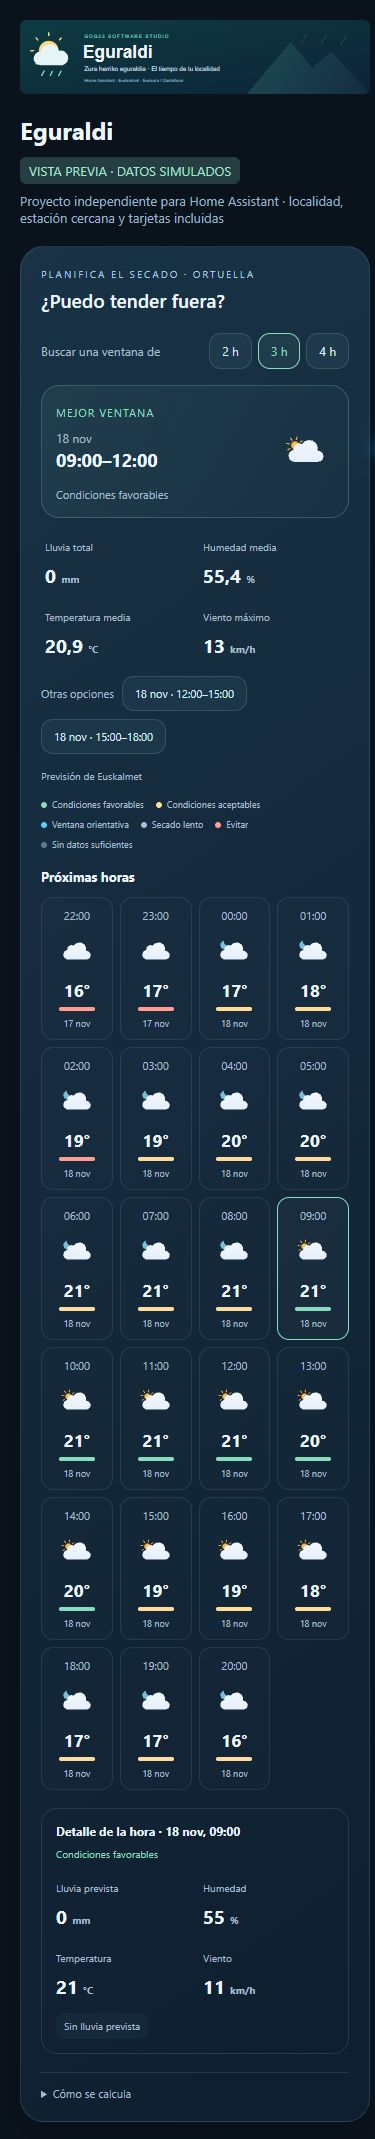
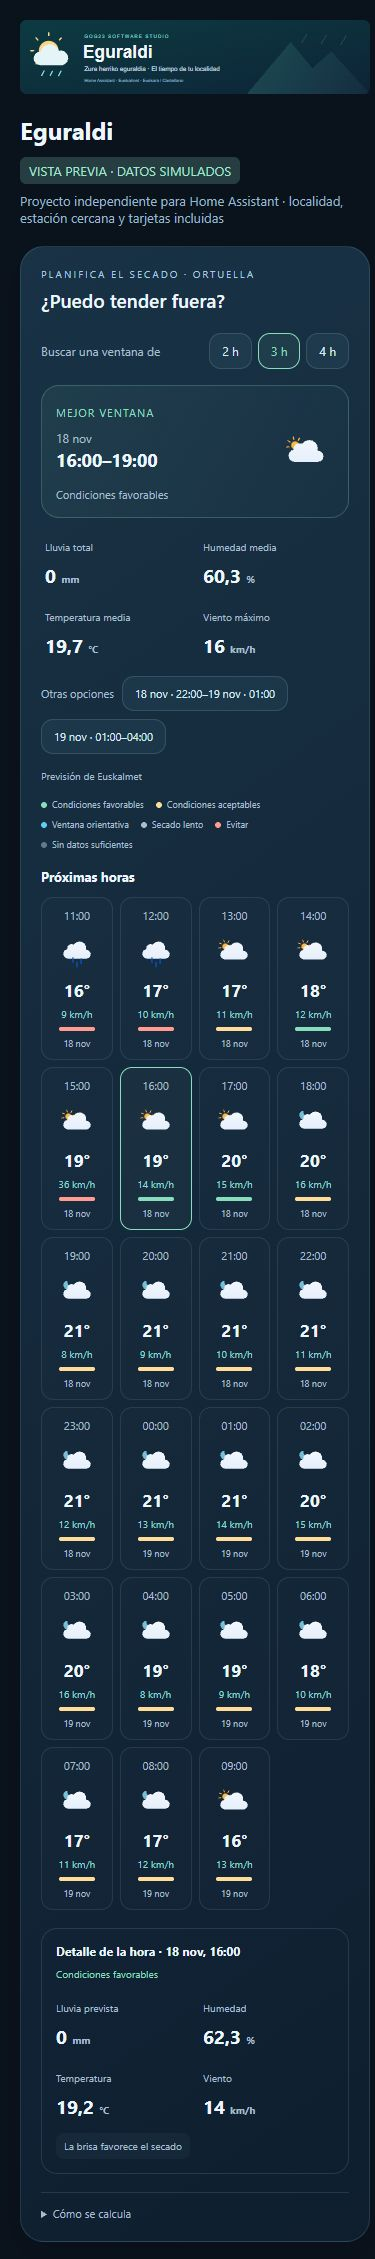
Show hourly wind and explain the benefit of breeze for outdoor drying

diff --git a/custom_components/euskalmet_local/frontend/euskalmet-local-card.js b/custom_components/euskalmet_local/frontend/euskalmet-local-card.js
@@ -1,14 +1,14 @@
 /* Eguraldi — GOG23 Software Studio. MIT. Icons: Meteocons / Bas Milius. */
-import './euskalmet-alert-card.js?v=0.4.0';
-import './eguraldi-comparison-card.js?v=0.4.0';
-import './eguraldi-microclimate-card.js?v=0.4.0';
-import './euskalmet-history-card.js?v=0.4.0-controls';
-import './euskalmet-radar-map-card.js?v=0.4.0';
+import './euskalmet-alert-card.js?v=0.4.1';
+import './eguraldi-comparison-card.js?v=0.4.1';
+import './eguraldi-microclimate-card.js?v=0.4.1';
+import './euskalmet-history-card.js?v=0.4.1-controls';
+import './euskalmet-radar-map-card.js?v=0.4.1';
 
-import {DRYING_CSS} from './eguraldi-drying-style.js?v=0.4.0';
-import {dryingPlan} from './eguraldi-drying-model.js?v=0.4.0';
+import {DRYING_CSS} from './eguraldi-drying-style.js?v=0.4.1';
+import {dryingPlan} from './eguraldi-drying-model.js?v=0.4.1';
 
-import {outingPlan} from './eguraldi-outing-model.js?v=0.4.0';
+import {outingPlan} from './eguraldi-outing-model.js?v=0.4.1';
 
 const EU_TEXT = {
   "Despejado": "Oskarbi",
@@ -109,6 +109,7 @@ Object.assign(EU_TEXT,{"Lluvia total":"Euri metatua","Humedad media":"Batez best
 Object.assign(EU_TEXT,{"Revisa el complemento de humedad para esta localidad":"Berrikusi herri honetako hezetasun osagarria"});
 Object.assign(EU_TEXT,{"La mejor hora para salir": "Kalera irteteko ordurik onena", "Salir": "Kalera irten", "Organiza tu salida": "Antolatu zure irteera", "Paseo": "Paseoa", "Deporte": "Kirola", "Con niños": "Umeekin", "Actividad": "Jarduera", "Duración": "Iraupena", "Previsión horaria: las franjas de 30 minutos usan los mismos datos de su hora.": "Orduko iragarpena: 30 minutuko tarteek ordu bereko datuak erabiltzen dituzte.", "Paraguas": "Aterkia", "Chaqueta": "Jaka", "Por precaución": "Badaezpada", "No se prevé lluvia": "Ez da euririk espero", "Recomendable": "Gomendagarria", "A tu elección": "Zure aukeran", "Después de la mejor franja": "Tarterik onenaren ondoren", "Puede aparecer lluvia": "Euria ager daiteke", "Baja la temperatura": "Tenperatura jaisten da", "Aumenta el viento": "Haizea indartzen da", "No se detectan cambios destacables en las horas disponibles.": "Eskuragarri dauden orduetan ez da aldaketa nabarmenik antzeman.", "Franjas para comparar": "Alderatzeko tarteak", "Detalle de la franja": "Tartearen xehetasuna", "Máxima lluvia horaria": "Orduko euri maximoa", "Temperatura mínima": "Tenperatura minimoa", "Temperatura máxima": "Tenperatura maximoa", "Noche o poca luz": "Gaua edo argi gutxi", "Probabilidad de lluvia o lluvia débil": "Euri-probabilitatea edo euri ahula", "Viento molesto": "Haize gogaikarria", "Franja con lluvia": "Euria duen tartea", "Tormenta o condiciones adversas": "Ekaitza edo baldintza txarrak", "Temperatura poco adecuada para esta actividad": "Jarduera honetarako tenperatura desegokia", "Niebla": "Lainoa", "Faltan datos para valorar esta franja": "Tarte hau baloratzeko datuak falta dira", "No se ha encontrado una franja adecuada con los datos disponibles.": "Eskuragarri dauden datuekin ez da tarte egokirik aurkitu.", "Orientación meteorológica, no una evaluación de seguridad. Las reglas cambian según la actividad.": "Eguraldiari buruzko orientazioa da, ez segurtasun-ebaluazioa. Arauak jardueraren arabera aldatzen dira.", "Las franjas deben tener datos en todas las horas que tocan. No se interpolan la lluvia ni el viento.": "Tarteek ukitzen dituzten ordu guztietan datuak behar dituzte. Euria eta haizea ez dira interpolatzen.", "Se comparan lluvia, temperatura, viento y luz diurna. Microclima no modifica la previsión.": "Euria, tenperatura, haizea eta eguneko argia alderatzen dira. Mikroklimak ez du iragarpena aldatzen."});
 Object.assign(EU_TEXT,{"No se detectan cambios destacables en las horas comparadas.":"Alderatutako orduetan ez da aldaketa nabarmenik antzeman.","No hay suficientes datos posteriores para comparar.":"Ez dago ondorengo datu nahikorik alderatzeko.","Comparado hasta {time}":"{time} arte alderatuta"});
+Object.assign(EU_TEXT,{"La brisa favorece el secado":"Haize leunak lehortzen laguntzen du"});
 const egLocale = hass => String(hass?.locale?.language || hass?.language || navigator.language || 'es').toLowerCase().startsWith('eu') ? 'eu-ES' : 'es-ES';
 const egText = (hass, text, values={}) => {
   const translated=egLocale(hass)==='eu-ES'?(EU_TEXT[text]||text):text;
@@ -309,12 +310,12 @@ export class EuskalmetLocalCard extends HTMLElement {
     const supplemental=!this._humidityMismatch&&other&&!['unknown','unavailable'].includes(other.state)?this._humidityForecast||[]:[];
     const plan=dryingPlan(usable?this._forecasts.hourly:[],{hours:this._dryingDuration||Number(this._config.drying_hours)||3,units:this._weather(),humidityForecast:supplemental,night:stamp=>isNight(stamp,this._location.latitude,this._location.longitude)});
     const labels={good:'Condiciones favorables',fair:'Condiciones aceptables',limited:'Ventana orientativa',slow:'Secado lento',avoid:'Evitar',unknown:'Sin datos suficientes'};
-    const reasons={rain:'Lluvia o tormenta prevista',wind:'Viento demasiado fuerte',cold:'Frío intenso',humidity:'Humedad muy alta o niebla',missing_humidity:'Humedad horaria no disponible: orientación parcial.',humid:'Humedad alta',cool:'Temperatura baja',calm:'Poco viento',night:'Noche: menor potencial de secado',chance:'Posibilidad de lluvia'};
+    const reasons={rain:'Lluvia o tormenta prevista',wind:'Viento demasiado fuerte',cold:'Frío intenso',humidity:'Humedad muy alta o niebla',missing_humidity:'Humedad horaria no disponible: orientación parcial.',humid:'Humedad alta',cool:'Temperatura baja',calm:'Poco viento',breeze:'La brisa favorece el secado',night:'Noche: menor potencial de secado',chance:'Posibilidad de lluvia'};
     const day=stamp=>this._time(stamp,{day:'numeric',month:'short'}),clock=stamp=>this._time(stamp,{hour:'2-digit',minute:'2-digit'});
     const range=w=>`${day(w.start)} · ${clock(w.start)}–${day(w.start)!==day(w.end)?day(w.end)+' · ':''}${clock(w.end)}`;
     const best=plan.best,selected=plan.slots.find(p=>p.stamp===this._dryingSelected)||best?.slots[0]||plan.slots[0];
     const facts=(p,aggregate=false)=>`<div class="dry-facts">${[[this._t(aggregate?'Lluvia total':'Lluvia prevista'),p.rain,'mm'],[this._t(aggregate?'Humedad media':'Humedad'),p.humidity,'%'],[this._t(aggregate?'Temperatura media':'Temperatura'),p.temperature,'°C'],[this._t(aggregate?'Viento máximo':'Viento'),p.wind,'km/h']].map(([label,value,unit])=>`<div><span>${escapeHTML(label)}</span><strong>${fmt(value)} <small>${unit}</small></strong></div>`).join('')}</div>`;
-    return `<section class="drying">${this._forecastHeader('¿Puedo tender fuera?','Planifica el secado')}<div class="dry-controls"><span>${escapeHTML(this._t('Buscar una ventana de'))}</span><div>${[2,3,4].map(h=>`<button data-drying-duration="${h}" aria-pressed="${plan.duration===h}">${h} h</button>`).join('')}</div></div><div class="dry-hero ${best?(best.limited?'limited':best.score>=65?'good':'fair'):'avoid'}"><div><span class="dry-kicker">${escapeHTML(this._t(best?(best.limited?'Ventana orientativa':'Mejor ventana'):'Mejor esperar'))}</span><strong>${best?`<small class="dry-window-date">${escapeHTML(day(best.start))}</small>${escapeHTML(clock(best.start))}–${escapeHTML(clock(best.end))}${day(best.start)!==day(best.end)?`<small class="dry-window-date">${escapeHTML(day(best.end))}</small>`:''}`:escapeHTML(this._t('No hay una franja de {hours} h con condiciones suficientes.',{hours:plan.duration}))}</strong><span class="dry-verdict">${best?escapeHTML(this._t(best.limited?'Humedad horaria no disponible: orientación parcial.':best.score>=65?'Condiciones favorables':'Condiciones aceptables')):''}</span></div>${best?this._icon(best.slots[0].condition,best.start):''}</div>${best?`<div class="dry-window-summary">${facts({rain:best.slots.reduce((n,p)=>n+p.rain,0),humidity:best.limited?null:best.slots.reduce((n,p)=>n+p.humidity,0)/best.slots.length,temperature:best.slots.reduce((n,p)=>n+p.temperature,0)/best.slots.length,wind:Math.max(...best.slots.map(p=>p.wind))},true)}</div>`:''}${best&&plan.alternatives.length?`<div class="dry-alternatives"><span>${escapeHTML(this._t('Otras opciones'))}</span>${plan.alternatives.map(w=>`<button data-drying-hour="${w.start}">${escapeHTML(range(w))}${w.limited?' · '+escapeHTML(this._t('Ventana orientativa')):''}</button>`).join('')}</div>`:''}<div class="dry-source">${escapeHTML(this._t('Previsión de Euskalmet'))}${this._humidityMismatch?' · '+escapeHTML(this._t('Revisa el complemento de humedad para esta localidad')):humidityEntity?' · '+escapeHTML(this._t('Complemento de humedad: {source}',{source:(String(other?.attributes?.attribution||'').includes('met.no')?'Met.no · ':'')+(other?.attributes?.friendly_name||humidityEntity)})):''}</div><div class="dry-legend">${['good','fair','limited','slow','avoid','unknown'].map(key=>`<span class="${key}">${escapeHTML(this._t(labels[key]))}</span>`).join('')}</div><h3>${escapeHTML(this._t('Próximas horas'))}</h3><div class="dry-hours">${plan.slots.map(p=>`<button class="dry-hour ${p.status} ${p.stamp===selected?.stamp?'selected':''}" data-drying-hour="${p.stamp}" aria-pressed="${p.stamp===selected?.stamp}" aria-label="${escapeHTML(this._time(p.stamp,{day:'numeric',month:'short',hour:'2-digit',minute:'2-digit'})+' · '+this._t(labels[p.status]))}"><time>${escapeHTML(this._time(p.stamp,{hour:'2-digit',minute:'2-digit'}))}</time>${this._icon(p.condition,p.stamp)}<strong>${fmt(p.temperature,0)}°</strong><span class="dry-status-dot" aria-hidden="true"></span><small>${escapeHTML(this._time(p.stamp,{day:'numeric',month:'short'}))}</small></button>`).join('')}</div>${selected?`<div class="dry-detail"><div class="dry-detail-head"><h3>${escapeHTML(this._t('Detalle de la hora'))} · ${escapeHTML(this._time(selected.stamp,{day:'numeric',month:'short',hour:'2-digit',minute:'2-digit'}))}</h3><span class="${selected.status}">${escapeHTML(this._t(labels[selected.status]))}</span></div>${facts(selected)}<div class="dry-reasons">${(selected.status==='unknown'?['Faltan lluvia, temperatura o viento']:selected.reasons.length?selected.reasons.map(r=>reasons[r]):['Sin lluvia prevista']).map(r=>`<span>${escapeHTML(this._t(r))}</span>`).join('')}</div></div>`:''}<details class="dry-method"><summary>${escapeHTML(this._t('Cómo se calcula'))}</summary>${['Se comparan franjas de horas completas. No se calcula cuánto tardará tu ropa en secarse.','La lluvia prevista, la niebla, el frío intenso y el viento fuerte descartan una hora. El resto se ordena por temperatura, humedad, brisa y noche.','Sin humedad horaria no se muestra una recomendación favorable. La humedad actual no se usa como previsión.','Reglas orientativas de Eguraldi, sin garantía de secado.'].map(p=>`<p>${escapeHTML(this._t(p))}</p>`).join('')}</details></section>`;
+    return `<section class="drying">${this._forecastHeader('¿Puedo tender fuera?','Planifica el secado')}<div class="dry-controls"><span>${escapeHTML(this._t('Buscar una ventana de'))}</span><div>${[2,3,4].map(h=>`<button data-drying-duration="${h}" aria-pressed="${plan.duration===h}">${h} h</button>`).join('')}</div></div><div class="dry-hero ${best?(best.limited?'limited':best.score>=65?'good':'fair'):'avoid'}"><div><span class="dry-kicker">${escapeHTML(this._t(best?(best.limited?'Ventana orientativa':'Mejor ventana'):'Mejor esperar'))}</span><strong>${best?`<small class="dry-window-date">${escapeHTML(day(best.start))}</small>${escapeHTML(clock(best.start))}–${escapeHTML(clock(best.end))}${day(best.start)!==day(best.end)?`<small class="dry-window-date">${escapeHTML(day(best.end))}</small>`:''}`:escapeHTML(this._t('No hay una franja de {hours} h con condiciones suficientes.',{hours:plan.duration}))}</strong><span class="dry-verdict">${best?escapeHTML(this._t(best.limited?'Humedad horaria no disponible: orientación parcial.':best.score>=65?'Condiciones favorables':'Condiciones aceptables')):''}</span></div>${best?this._icon(best.slots[0].condition,best.start):''}</div>${best?`<div class="dry-window-summary">${facts({rain:best.slots.reduce((n,p)=>n+p.rain,0),humidity:best.limited?null:best.slots.reduce((n,p)=>n+p.humidity,0)/best.slots.length,temperature:best.slots.reduce((n,p)=>n+p.temperature,0)/best.slots.length,wind:Math.max(...best.slots.map(p=>p.wind))},true)}</div>`:''}${best&&plan.alternatives.length?`<div class="dry-alternatives"><span>${escapeHTML(this._t('Otras opciones'))}</span>${plan.alternatives.map(w=>`<button data-drying-hour="${w.start}">${escapeHTML(range(w))}${w.limited?' · '+escapeHTML(this._t('Ventana orientativa')):''}</button>`).join('')}</div>`:''}<div class="dry-source">${escapeHTML(this._t('Previsión de Euskalmet'))}${this._humidityMismatch?' · '+escapeHTML(this._t('Revisa el complemento de humedad para esta localidad')):humidityEntity?' · '+escapeHTML(this._t('Complemento de humedad: {source}',{source:(String(other?.attributes?.attribution||'').includes('met.no')?'Met.no · ':'')+(other?.attributes?.friendly_name||humidityEntity)})):''}</div><div class="dry-legend">${['good','fair','limited','slow','avoid','unknown'].map(key=>`<span class="${key}">${escapeHTML(this._t(labels[key]))}</span>`).join('')}</div><h3>${escapeHTML(this._t('Próximas horas'))}</h3><div class="dry-hours">${plan.slots.map(p=>`<button class="dry-hour ${p.status} ${p.stamp===selected?.stamp?'selected':''}" data-drying-hour="${p.stamp}" aria-pressed="${p.stamp===selected?.stamp}" aria-label="${escapeHTML(this._time(p.stamp,{day:'numeric',month:'short',hour:'2-digit',minute:'2-digit'})+' · '+this._t(labels[p.status]))}"><time>${escapeHTML(this._time(p.stamp,{hour:'2-digit',minute:'2-digit'}))}</time>${this._icon(p.condition,p.stamp)}<strong>${fmt(p.temperature,0)}°</strong><span class="dry-hour-wind">${fmt(p.wind,0)} km/h</span><span class="dry-status-dot" aria-hidden="true"></span><small>${escapeHTML(this._time(p.stamp,{day:'numeric',month:'short'}))}</small></button>`).join('')}</div>${selected?`<div class="dry-detail"><div class="dry-detail-head"><h3>${escapeHTML(this._t('Detalle de la hora'))} · ${escapeHTML(this._time(selected.stamp,{day:'numeric',month:'short',hour:'2-digit',minute:'2-digit'}))}</h3><span class="${selected.status}">${escapeHTML(this._t(labels[selected.status]))}</span></div>${facts(selected)}<div class="dry-reasons">${(selected.status==='unknown'?['Faltan lluvia, temperatura o viento']:selected.reasons.length?selected.reasons.map(r=>reasons[r]):['Sin lluvia prevista']).map(r=>`<span>${escapeHTML(this._t(r))}</span>`).join('')}</div></div>`:''}<details class="dry-method"><summary>${escapeHTML(this._t('Cómo se calcula'))}</summary>${['Se comparan franjas de horas completas. No se calcula cuánto tardará tu ropa en secarse.','La lluvia prevista, la niebla, el frío intenso y el viento fuerte descartan una hora. El resto se ordena por temperatura, humedad, brisa y noche.','Sin humedad horaria no se muestra una recomendación favorable. La humedad actual no se usa como previsión.','Reglas orientativas de Eguraldi, sin garantía de secado.'].map(p=>`<p>${escapeHTML(this._t(p))}</p>`).join('')}</details></section>`;
   }
   _planning(){
     const rows=forecastRows(this._forecasts.hourly).filter(f=>Date.parse(f.datetime)<=Date.now()+24*3600000),hours=rows.slice(0,8),rain=this._rainMetric(rows),wet=rows.find(f=>(rain.value(f)??0)>0);

diff --git a/custom_components/euskalmet_local/frontend/eguraldi-drying-style.js b/custom_components/euskalmet_local/frontend/eguraldi-drying-style.js
@@ -1,3 +1,3 @@
 export const DRYING_CSS = `
-.outing-min{color:#68cef3!important}.outing-max{color:#ffbf83!important}.outing-until{display:block;margin-top:7px;font-size:10px}.outing-controls{display:flex;gap:7px;flex-wrap:wrap;margin-bottom:14px}.outing-controls button[aria-pressed=true]{color:#8cddba;border-color:#8cddba;background:#8cddba12}.outing-kit{display:grid;grid-template-columns:1fr 1fr;gap:10px;margin:14px 0}.outing-kit>div,.outing-changes{border:1px solid #9acdd926;border-radius:14px;padding:12px;color:#a9becf;font-size:11px}.outing-kit strong,.outing-changes strong{display:block;font-size:13px;color:#edf8ff;margin-top:7px}.outing-changes h3{margin-top:0!important}.drying h3{font-size:13px;margin:18px 0 12px}.dry-controls{display:flex;justify-content:space-between;align-items:center;gap:12px;flex-wrap:wrap;margin-bottom:16px;color:#a9becf;font-size:12px}.dry-controls>div{display:flex;gap:6px}.dry-controls button[aria-pressed=true]{border-color:#8cddba;color:#8cddba;background:#8cddba12}.dry-hero{display:flex;align-items:center;gap:12px;border:1px solid #8cddba40;background:linear-gradient(115deg,#8cddba13,#68cef305);border-radius:18px;padding:18px}.dry-hero.fair{border-color:#ffdc8e40}.dry-hero.fair .dry-kicker{color:#ffdc8e}.dry-hero.limited{border-color:#68cef340}.dry-hero.avoid{border-color:#ffbf8340;background:#ffbf8308}.dry-hero>div{flex:1;min-width:0}.dry-kicker{font-size:11px;letter-spacing:1px;text-transform:uppercase;color:#8cddba}.dry-hero.limited .dry-kicker{color:#68cef3}.dry-hero.avoid .dry-kicker{color:#ffbf83}.dry-hero strong{display:block;font-size:22px;line-height:1.5;margin:8px 0}.dry-window-date{display:block;font-size:12px;color:#a9becf;font-weight:400}.dry-hero img{width:74px;height:74px;flex-shrink:0}.dry-verdict{font-size:11px;color:#a9becf}.dry-window-summary{padding:16px 4px 4px}.dry-alternatives{display:flex;flex-wrap:wrap;align-items:center;gap:8px;margin:14px 0;color:#a9becf;font-size:11px}.dry-alternatives button{font-size:11px;text-align:left}.dry-source{font-size:10px;color:#a9becf;margin:14px 0;line-height:1.6}.dry-legend{display:flex;flex-wrap:wrap;gap:8px 12px;font-size:10px;color:#a9becf}.dry-legend>span:before{content:"";display:inline-block;width:6px;height:6px;border-radius:50%;background:var(--dry);margin-right:5px}.good{--dry:#8cddba}.fair{--dry:#ffdc8e}.limited{--dry:#68cef3}.slow{--dry:#a9becf}.avoid{--dry:#ff9b8b}.unknown{--dry:#64798d}.dry-hours{display:grid;grid-template-columns:repeat(6,minmax(0,1fr));gap:7px}.dry-hour{min-width:0;padding:10px 2px!important;display:flex;flex-direction:column;align-items:center;gap:6px;border-color:#9acdd920!important;background:#ffffff02!important;color:#a9becf!important}.dry-hour.selected{border-color:var(--dry)!important;background:#ffffff07!important}.dry-hour time{font-size:11px}.dry-hour img{width:44px;height:44px;object-fit:contain}.dry-hour strong{font-size:17px;color:#edf8ff}.dry-hour small{font-size:9px}.dry-status-dot{height:4px;width:55%;border-radius:5px;background:var(--dry)}.dry-detail{border:1px solid #9acdd926;border-radius:16px;padding:14px;margin-top:18px}.dry-detail-head{display:flex;flex-wrap:wrap;justify-content:space-between;align-items:center;gap:8px;margin-bottom:14px}.dry-detail-head h3{margin:0;font-size:12px}.dry-detail-head>span{font-size:10px;color:var(--dry)}.dry-facts{display:grid;grid-template-columns:repeat(4,minmax(0,1fr));gap:10px}.dry-facts span{font-size:10px;color:#a9becf}.dry-facts strong{display:block;font-size:19px;margin-top:7px;color:#edf8ff}.dry-facts small{font-size:10px;color:#a9becf}.dry-reasons{display:flex;flex-wrap:wrap;gap:7px;margin-top:14px;font-size:10px;color:#a9becf}.dry-reasons span{background:#9acdd90c;border-radius:8px;padding:6px 8px}.dry-method{border-top:1px solid #9acdd926;margin-top:18px;padding-top:13px;color:#a9becf;font-size:11px}.dry-method summary{cursor:pointer}.dry-method p{line-height:1.6}.drying button:focus-visible,.drying summary:focus-visible{outline:2px solid #8ed9d1;outline-offset:3px}@media(max-width:550px){.dry-hours{grid-template-columns:repeat(4,minmax(0,1fr))}.dry-hero{padding:14px}.dry-hero strong{font-size:18px}.dry-window-date{display:block;font-size:12px;color:#a9becf;font-weight:400}.dry-hero img{width:56px;height:56px}.dry-facts{grid-template-columns:repeat(2,minmax(0,1fr));gap:16px}.dry-legend{font-size:9px}}
+.outing-min{color:#68cef3!important}.outing-max{color:#ffbf83!important}.outing-until{display:block;margin-top:7px;font-size:10px}.outing-controls{display:flex;gap:7px;flex-wrap:wrap;margin-bottom:14px}.outing-controls button[aria-pressed=true]{color:#8cddba;border-color:#8cddba;background:#8cddba12}.outing-kit{display:grid;grid-template-columns:1fr 1fr;gap:10px;margin:14px 0}.outing-kit>div,.outing-changes{border:1px solid #9acdd926;border-radius:14px;padding:12px;color:#a9becf;font-size:11px}.outing-kit strong,.outing-changes strong{display:block;font-size:13px;color:#edf8ff;margin-top:7px}.outing-changes h3{margin-top:0!important}.drying h3{font-size:13px;margin:18px 0 12px}.dry-controls{display:flex;justify-content:space-between;align-items:center;gap:12px;flex-wrap:wrap;margin-bottom:16px;color:#a9becf;font-size:12px}.dry-controls>div{display:flex;gap:6px}.dry-controls button[aria-pressed=true]{border-color:#8cddba;color:#8cddba;background:#8cddba12}.dry-hero{display:flex;align-items:center;gap:12px;border:1px solid #8cddba40;background:linear-gradient(115deg,#8cddba13,#68cef305);border-radius:18px;padding:18px}.dry-hero.fair{border-color:#ffdc8e40}.dry-hero.fair .dry-kicker{color:#ffdc8e}.dry-hero.limited{border-color:#68cef340}.dry-hero.avoid{border-color:#ffbf8340;background:#ffbf8308}.dry-hero>div{flex:1;min-width:0}.dry-kicker{font-size:11px;letter-spacing:1px;text-transform:uppercase;color:#8cddba}.dry-hero.limited .dry-kicker{color:#68cef3}.dry-hero.avoid .dry-kicker{color:#ffbf83}.dry-hero strong{display:block;font-size:22px;line-height:1.5;margin:8px 0}.dry-window-date{display:block;font-size:12px;color:#a9becf;font-weight:400}.dry-hero img{width:74px;height:74px;flex-shrink:0}.dry-verdict{font-size:11px;color:#a9becf}.dry-window-summary{padding:16px 4px 4px}.dry-alternatives{display:flex;flex-wrap:wrap;align-items:center;gap:8px;margin:14px 0;color:#a9becf;font-size:11px}.dry-alternatives button{font-size:11px;text-align:left}.dry-source{font-size:10px;color:#a9becf;margin:14px 0;line-height:1.6}.dry-legend{display:flex;flex-wrap:wrap;gap:8px 12px;font-size:10px;color:#a9becf}.dry-legend>span:before{content:"";display:inline-block;width:6px;height:6px;border-radius:50%;background:var(--dry);margin-right:5px}.good{--dry:#8cddba}.fair{--dry:#ffdc8e}.limited{--dry:#68cef3}.slow{--dry:#a9becf}.avoid{--dry:#ff9b8b}.unknown{--dry:#64798d}.dry-hours{display:grid;grid-template-columns:repeat(6,minmax(0,1fr));gap:7px}.dry-hour{min-width:0;padding:10px 2px!important;display:flex;flex-direction:column;align-items:center;gap:6px;border-color:#9acdd920!important;background:#ffffff02!important;color:#a9becf!important}.dry-hour.selected{border-color:var(--dry)!important;background:#ffffff07!important}.dry-hour time{font-size:11px}.dry-hour img{width:44px;height:44px;object-fit:contain}.dry-hour-wind{font-size:10px;color:#8ed9d1;white-space:nowrap}.dry-hour strong{font-size:17px;color:#edf8ff}.dry-hour small{font-size:9px}.dry-status-dot{height:4px;width:55%;border-radius:5px;background:var(--dry)}.dry-detail{border:1px solid #9acdd926;border-radius:16px;padding:14px;margin-top:18px}.dry-detail-head{display:flex;flex-wrap:wrap;justify-content:space-between;align-items:center;gap:8px;margin-bottom:14px}.dry-detail-head h3{margin:0;font-size:12px}.dry-detail-head>span{font-size:10px;color:var(--dry)}.dry-facts{display:grid;grid-template-columns:repeat(4,minmax(0,1fr));gap:10px}.dry-facts span{font-size:10px;color:#a9becf}.dry-facts strong{display:block;font-size:19px;margin-top:7px;color:#edf8ff}.dry-facts small{font-size:10px;color:#a9becf}.dry-reasons{display:flex;flex-wrap:wrap;gap:7px;margin-top:14px;font-size:10px;color:#a9becf}.dry-reasons span{background:#9acdd90c;border-radius:8px;padding:6px 8px}.dry-method{border-top:1px solid #9acdd926;margin-top:18px;padding-top:13px;color:#a9becf;font-size:11px}.dry-method summary{cursor:pointer}.dry-method p{line-height:1.6}.drying button:focus-visible,.drying summary:focus-visible{outline:2px solid #8ed9d1;outline-offset:3px}@media(max-width:550px){.dry-hours{grid-template-columns:repeat(4,minmax(0,1fr))}.dry-hero{padding:14px}.dry-hero strong{font-size:18px}.dry-window-date{display:block;font-size:12px;color:#a9becf;font-weight:400}.dry-hero img{width:56px;height:56px}.dry-facts{grid-template-columns:repeat(2,minmax(0,1fr));gap:16px}.dry-legend{font-size:9px}}
 `;

diff --git a/docs/preview.html b/docs/preview.html
@@ -6,7 +6,7 @@
 
 <script type="module">
 
-import {EuskalmetLocalCard} from '/euskalmet_local_static/euskalmet-local-card.js?v=0.4.0-controls';
+import {EuskalmetLocalCard} from '/euskalmet_local_static/euskalmet-local-card.js?v=0.4.1-controls';
 
 const now=new Date().setMinutes(0,0,0),loc={entry_id:'demo',locality:'Ortuella',station:'Arboleda',location_source:'home_assistant',distance_km:1.8,latitude:43.31,longitude:-3.05,entities:{weather:'weather.demo',temperature:'sensor.demo_temperature',humidity:'sensor.demo_humidity',precipitation_today:'sensor.demo_rain',temperature_min_today:'sensor.demo_min',temperature_max_today:'sensor.demo_max',wind_gust_max_today:'sensor.demo_gust',irradiance:'sensor.demo_irradiance'}};
 

diff --git a/custom_components/euskalmet_local/frontend/eguraldi-drying-model.js b/custom_components/euskalmet_local/frontend/eguraldi-drying-model.js
@@ -33,6 +33,7 @@ export function dryingHour(forecast, units = {}, humidity = null, night = false)
   if (rh !== null && rh >= 75) reasons.push('humid');
   if (temperature < 12) reasons.push('cool');
   if (wind < 5) reasons.push('calm');
+  else reasons.push('breeze');
   if (night) reasons.push('night');
   if (probability !== null && probability >= 20) reasons.push('chance');
   return {temperature,wind,rain,gust,humidity:rh,probability,night,status,reasons,missing,score:Math.round(score)};

diff --git a/custom_components/euskalmet_local/frontend/eguraldi-outing-model.js b/custom_components/euskalmet_local/frontend/eguraldi-outing-model.js
@@ -1,5 +1,5 @@
 /* Eguraldi · heuristic weather windows, not a safety assessment · MIT */
-import {dryingHour} from './eguraldi-drying-model.js?v=0.4.0';
+import {dryingHour} from './eguraldi-drying-model.js?v=0.4.1';
 const OUTING_HOUR=3600000, HALF_HOUR=1800000;
 const PROFILES={walk:{cold:0,hot:32,wind:35,gust:50,ideal:18},sport:{cold:2,hot:28,wind:30,gust:45,ideal:14},family:{cold:5,hot:30,wind:25,gust:40,ideal:20}};
 

diff --git a/custom_components/euskalmet_local/dashboard.py b/custom_components/euskalmet_local/dashboard.py
@@ -8,7 +8,7 @@ from homeassistant.helpers import entity_registry as er
 from .const import DOMAIN
 from .microclimate_options import async_register_microclimate_service
 
-VERSION = "0.4.0"
+VERSION = "0.4.1"
 EVENT_LOCATIONS_UPDATED = f"{DOMAIN}_locations_updated"
 
 

diff --git a/README.eu.md b/README.eu.md
@@ -11,7 +11,7 @@ Euskalmeteko eguraldia Home Assistanten: hurbileko estazioen neurketak, orduko e
 [![Egiaztapenak](https://github.com/GOG23-Software-Studio/eguraldi/actions/workflows/ci.yml/badge.svg)](https://github.com/GOG23-Software-Studio/eguraldi/actions/workflows/ci.yml)
 [![Bertsioa](https://img.shields.io/github/v/release/GOG23-Software-Studio/eguraldi)](https://github.com/GOG23-Software-Studio/eguraldi/releases)
 
-**0.4.0 bertsioa.** Komunitate-proiektu independentea, Euskalmetekin edo Eusko Jaurlaritzarekin lotura ofizialik gabea.
+**0.4.1 bertsioa.** Komunitate-proiektu independentea, Euskalmetekin edo Eusko Jaurlaritzarekin lotura ofizialik gabea.
 
 ![Eguraldiren txartelak, simulatutako datuekin](docs/preview-eu.jpg)
 
@@ -29,7 +29,7 @@ Iragarpena ordukoa da: ordu erdiko irteerek ordu-bloke berak erabiltzen dituzte,
 
 ## Arropa kanpoan zabal dezaket?
 
-**Arropa zabaldu** ikuspegiak (`mode: drying`) hurrengo 24 orduetako 2, 3 edo 4 ordu osoko tarterik onena eta beste aukerak bilatzen ditu. Euria, tenperatura, hezetasuna eta haizea alderatzen ditu. Sakatu ordu bat datuak eta arrazoiak ikusteko. Editorean herri bereko beste orduko iragarpen bat hauta daiteke **hezetasun osagarri** gisa: aldagai hori soilik erabiltzen da, iturria adieraziz.
+**Arropa zabaldu** ikuspegiak (`mode: drying`) hurrengo 24 orduetako 2, 3 edo 4 ordu osoko tarterik onena eta beste aukerak bilatzen ditu. Euria, tenperatura, hezetasuna eta haizea alderatzen ditu; haizearen abiadura ordu bakoitzaren azpian ere agertzen da. Sakatu ordu bat datuak eta arrazoiak ikusteko, haize leunak lehortzen nola laguntzen duen barne. Editorean herri bereko beste orduko iragarpen bat hauta daiteke **hezetasun osagarri** gisa: aldagai hori soilik erabiltzen da, iturria adieraziz.
 
 Eguraldik gaur egun argitaratzen duen iragarpenak ez du orduko hezetasunik. Osagarririk gabe orientazio partziala ematen da, hezetasuna asmatu gabe eta uneko neurketa iragarpen gisa erabili gabe. Ez du Mikroklima edo sentsore propiorik behar. [Konfigurazioa eta arauak](docs/DRYING.md) (gaztelaniaz).
 

diff --git a/README.md b/README.md
@@ -12,7 +12,7 @@ El tiempo de Euskalmet en Home Assistant: observaciones de estaciones cercanas, 
 
 [![Versión](https://img.shields.io/github/v/release/GOG23-Software-Studio/eguraldi)](https://github.com/GOG23-Software-Studio/eguraldi/releases)
 
-**Versión 0.4.0.** Proyecto comunitario independiente, sin afiliación con Euskalmet ni con el Gobierno Vasco.
+**Versión 0.4.1.** Proyecto comunitario independiente, sin afiliación con Euskalmet ni con el Gobierno Vasco.
 
 ![Tarjetas actuales de Eguraldi en escritorio, con datos simulados](docs/preview.jpg)
 
@@ -38,7 +38,7 @@ La previsión es horaria: las salidas a media hora reutilizan esos bloques, sin 
 
 ## ¿Puedo tender fuera?
 
-La vista **Tender fuera** (`mode: drying`) busca la mejor ventana de 2, 3 o 4 horas completas de las próximas 24 horas y ofrece alternativas. Compara lluvia, temperatura, humedad y viento; toca una hora para ver sus datos y los motivos. El editor permite añadir una previsión horaria de la misma localidad como **complemento de humedad**: solo se usa esa variable y se indica su origen.
+La vista **Tender fuera** (`mode: drying`) busca la mejor ventana de 2, 3 o 4 horas completas de las próximas 24 horas y ofrece alternativas. Compara lluvia, temperatura, humedad y viento; la velocidad del viento se ve también debajo de cada hora. Toca una hora para ver sus datos y los motivos, incluida la ayuda de la brisa al secado. El editor permite añadir una previsión horaria de la misma localidad como **complemento de humedad**: solo se usa esa variable y se indica su origen.
 
 La previsión que publica actualmente Eguraldi no incluye humedad horaria. Sin un complemento, la tarjeta ofrece una ventana orientativa y deja la humedad sin datos; no usa la humedad actual como si fuera una previsión. No necesita Microclima ni sensores propios. [Configuración y reglas](docs/DRYING.md).
 
